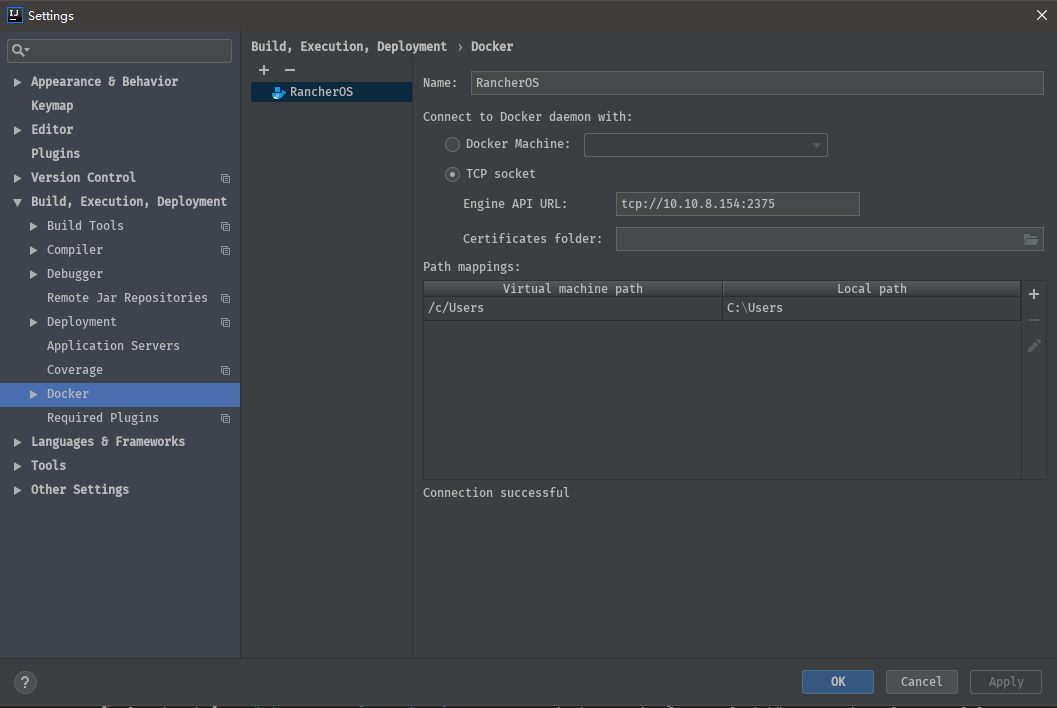
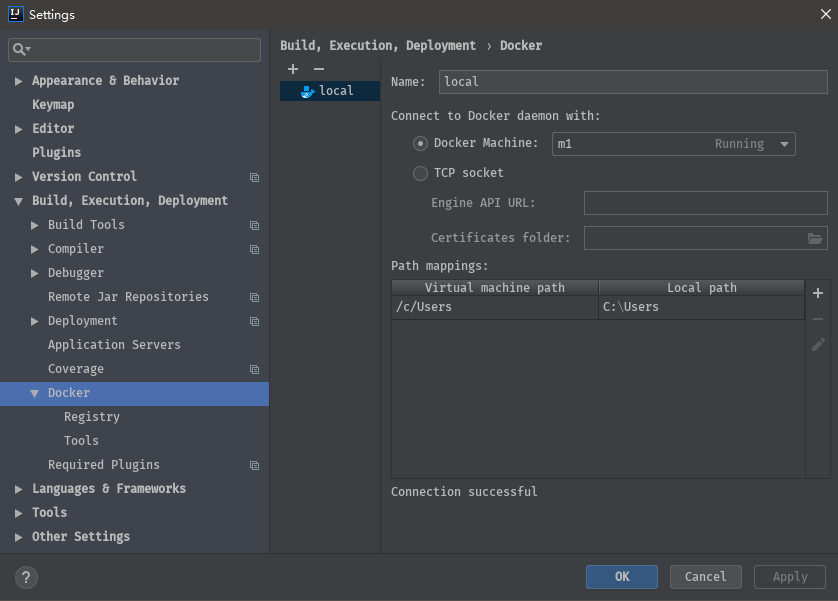
添加Docker部署配置脚本和说明

diff --git a/README.md b/README.md
@@ -39,6 +39,11 @@ apidoc -i browser-api/ -o apidoc/
 ```
 
 ### 六、IDEA Docker开发环境设置
+###### 0、docker-machine安装
+```
+http://192.168.9.85:10080/tools/docker-machine.exe
+docker-machine create -d virtualbox --virtualbox-boot2docker-url http://192.168.9.85:10080/tools/rancheros.iso --virtualbox-memory 2048 m1
+```
 ###### 1、Docker服务端配置
 ![avatar](doc/docker-daemon-config.png)
 ###### 2、browser-agent部署配置
